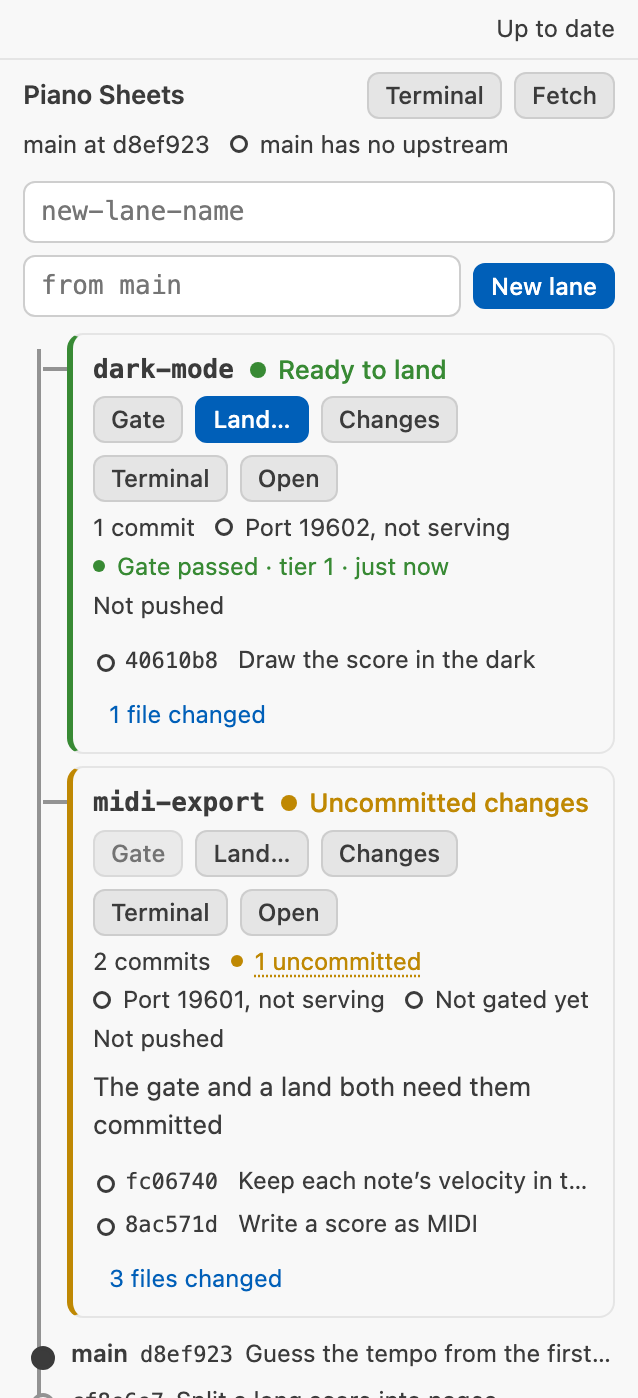
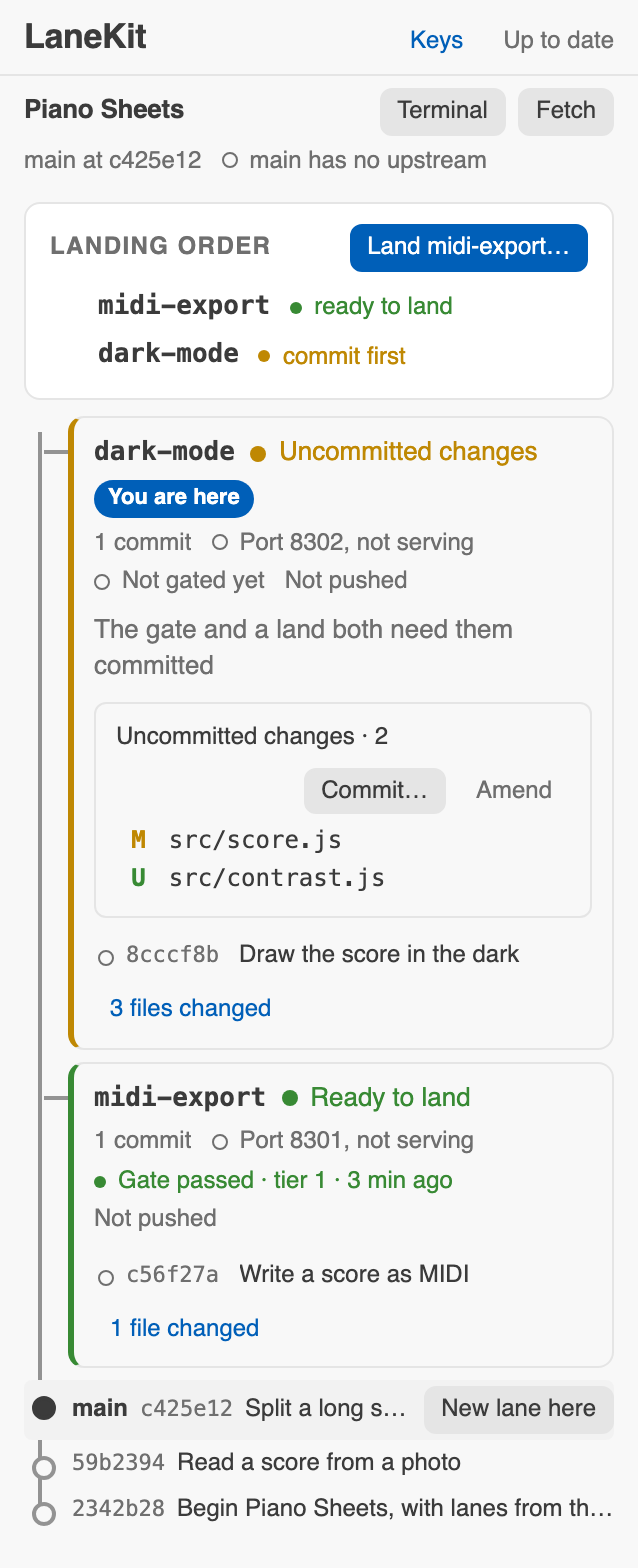
Show the page as it works now: controls on hover, a new lane from a commit, drag to rebase, Commit and Amend
The README's pictures showed every lane with its buttons at rest and the new-lane form above the log,
both gone. They are retaken from a real scratch repository: the page with the pointer on midi-export,
showing its toolbar, and dark-mode's uncommitted files with Commit… and Amend; the side bar with
dark-mode marked You are here and main's newest commit offering New lane here. The words say the same,
and the keys gain c and n's new meaning. The editor extension is 0.4.0.

diff --git a/README.md b/README.md
@@ -11,11 +11,12 @@ process, a file or a database row, and each lands back on `main` only once its t
 
 <picture>
   <source media="(prefers-color-scheme: dark)" srcset="docs/images/lanes-dark.png">
-  <img alt="The LaneKit page: two lanes drawn above the commit of main they started from. dark-mode has one commit and uncommitted changes; midi-export has passed its gate and is ready to land." src="docs/images/lanes-light.png">
+  <img alt="The LaneKit page: the landing order at the top, then two lanes drawn above the commit of main they started from. dark-mode lists its two uncommitted files with Commit… and Amend beside them; midi-export has passed its gate, and the pointer on it shows its buttons: Gate, Land…, Push." src="docs/images/lanes-light.png">
 </picture>
 
 <sub>`lane web`: every lane of every repository on one page, drawn above the commit it started
-from, with what each needs next and the buttons that do it.</sub>
+from, with what each needs next. A lane's buttons show when the pointer is on it, as here on
+midi-export.</sub>
 
 ## The idea, in one picture
 
@@ -198,16 +199,25 @@ The page in the picture above, for every repository in a folder:
   signed in. While a press runs in it, it says so live: *Gating · running the tests… · 12 s*. A
   failed gate shows the failing step and its last lines, kept with the run, so it is still there
   tomorrow.
-- **Its buttons** are lane's own commands, run as a terminal would run them, with their output
-  underneath: **New lane**, **Gate**, **Land**, **Sweep**, **Rebase** (a lane that is behind),
-  **Push** (one with commits origin lacks), **Pull request** (one pushed without one), **Pull**
-  (main behind origin) and **Fetch**. Land and Sweep check first with `--dry-run` and ask; a push
-  that would replace origin's copy of a rebased branch asks too. A rebase that conflicts stops with
-  the files named, and waits for **Continue** or **Abort**.
+- **Its buttons show when the pointer or the keyboard is on it**, the way Sapling's Interactive
+  Smartlog does, so a page of lanes reads calmly until you reach for one. They are lane's own
+  commands, run as a terminal would run them, with their output underneath: **Gate**, **Land**,
+  **Sweep**, **Rebase** (a lane that is behind), **Push** (one with commits origin lacks), **Pull
+  request** (one pushed without one), **Pull** (main behind origin) and **Fetch**. Land and Sweep
+  check first with `--dry-run` and ask; a push that would replace origin's copy of a rebased branch
+  asks too. A rebase that conflicts stops with the files named, and waits for **Continue** or
+  **Abort**.
+- **A new lane starts from a commit.** Point at any commit, of main or of a lane, choose **New lane
+  here**, and type its name in that row: the lane starts from that commit, on top of it.
+- **A lane can be dragged onto a commit of main** to rebase it there, after it says what will
+  happen. A lane with uncommitted work, or in the middle of something, stays where it is.
+- **What is uncommitted is listed under the lane**, each file with what happened to it (M, A, D,
+  U), and **Commit…** and **Amend** beside them: every file, with a message.
 - **It stays current by itself:** while it is open, each repository is fetched every five minutes,
   so "behind origin" is true without anybody asking; nothing is pulled or merged by it.
 - **The keyboard:** `j` and `k` move between lanes, `Enter` opens one, `g` gates, `l` lands, `r`
-  rebases, `p` pushes, `f` fetches, `n` starts a new lane, `?` lists them.
+  rebases, `p` pushes, `c` commits, `f` fetches, `n` names a new lane from the lane's newest commit
+  (or main's), `?` lists them.
 
 It listens on the loopback only. `--ssh-host <host>` adds a link that opens a lane in VS Code over
 Remote-SSH, and `--browser-editor <prefix>` one to a browser editor.
@@ -221,12 +231,15 @@ Smartlog sits in the editor. There its clicks drive the editor:
 
 <picture>
   <source media="(prefers-color-scheme: dark)" srcset="docs/images/lanekit-sidebar-dark.png">
-  <img alt="LaneKit in the editor's side bar: each lane with its state, its buttons on a line of their own, and main's recent commits below." src="docs/images/lanekit-sidebar-light.png" width="320" align="right">
+  <img alt="LaneKit in the editor's side bar: the landing order, then dark-mode marked You are here with its uncommitted files, midi-export ready to land, and main's newest commit under the pointer offering New lane here." src="docs/images/lanekit-sidebar-light.png" width="320" align="right">
 </picture>
 
 - a commit opens as the diffs of what it changed; a lane's **Changes** opens everything it
   holds that the integration branch does not, committed or not, against its files as they are,
-  so you can edit them in the diff; "N uncommitted" opens what is uncommitted;
+  so you can edit them in the diff; an uncommitted file opens its own difference;
+- the lane the file in front of you is in says **You are here**;
+- in the side bar, where there is no room for a toolbar, the pointer on a lane shows the next
+  thing to do and a **⋯** that opens the rest;
 - **Open** opens a lane in a window of its own, and **Terminal** a terminal in it;
 - a rebase that stopped on a conflict opens its files (**Conflicts**), where each conflict can be
   accepted one way, the other, or both; a file and line in a failed gate's output opens there;
@@ -247,7 +260,7 @@ commands.
 
 ```
 node ~/.lanekit/vscode/pack.mjs       # writes vscode/lanekit-<version>.vsix, no dependencies
-code --install-extension ~/.lanekit/vscode/lanekit-0.3.0.vsix
+code --install-extension ~/.lanekit/vscode/lanekit-0.4.0.vsix
 ```
 
 <br clear="right">
